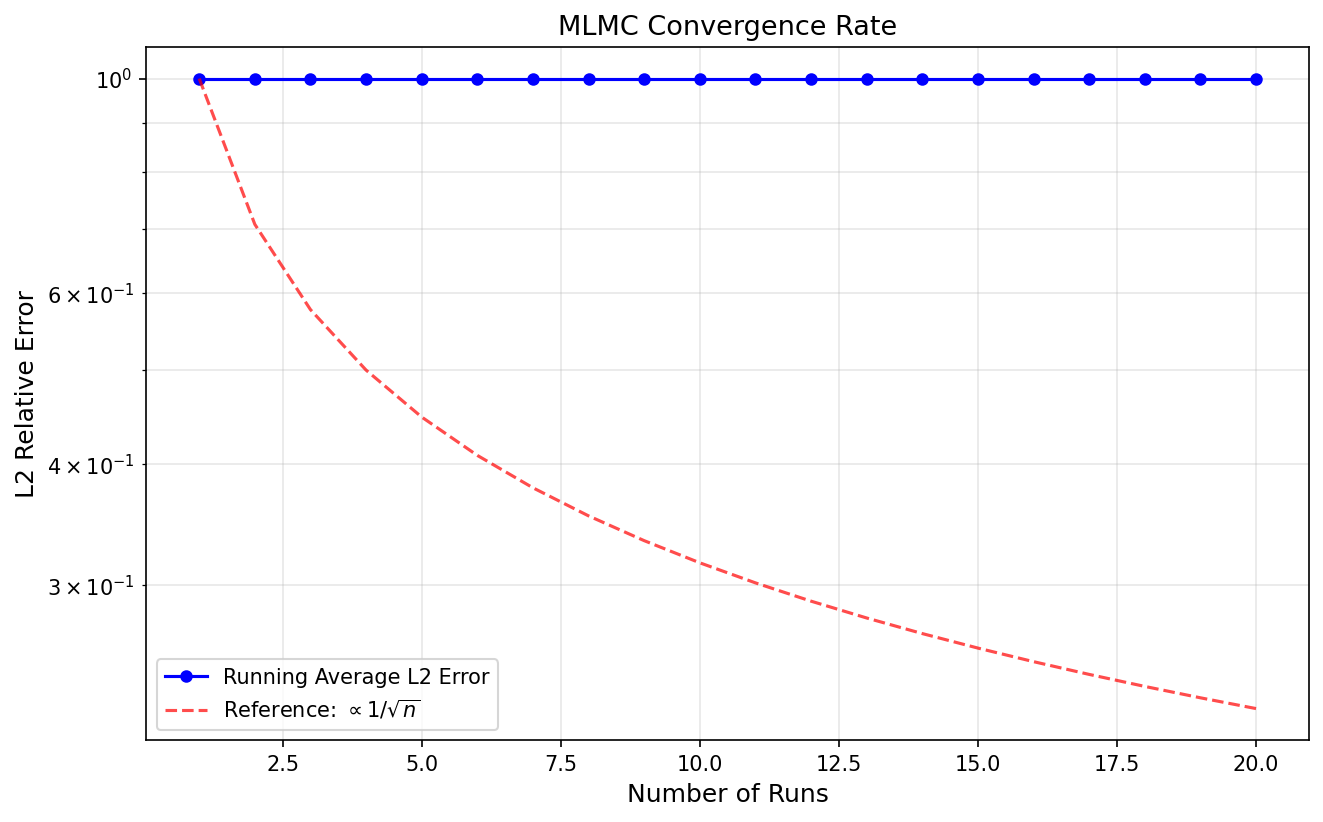
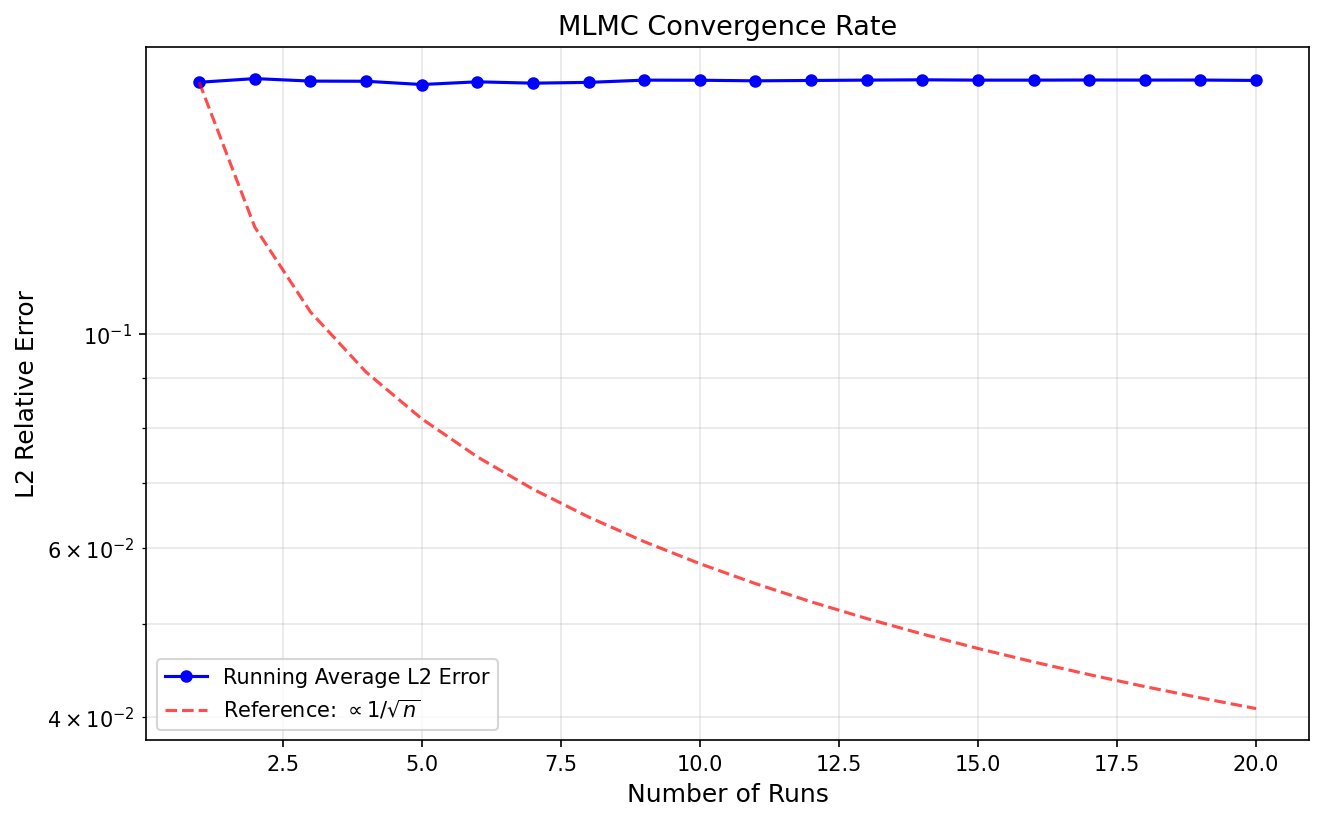
Updated Results

diff --git a/Comparison_Between_Methods/results/tables/exp5_parameter_sensitivity.md b/Comparison_Between_Methods/results/tables/exp5_parameter_sensitivity.md
@@ -4,39 +4,39 @@
 
 | Value | L2 Error | L∞ Error | MLMC Time (s) | Laplace Time (s) |
 |-------|----------|----------|---------------|------------------|
-| 0.05 | 2.0000 | 2.7046 | 0.40 | 0.36 |
-| 0.10 | 2.0000 | 2.7050 | 0.40 | 0.35 |
-| 0.15 | 2.0000 | 2.7064 | 0.40 | 0.36 |
-| 0.20 | 2.0000 | 2.7062 | 0.40 | 0.35 |
-| 0.25 | 2.0000 | 2.7080 | 0.41 | 0.37 |
-| 0.30 | 2.0000 | 2.7074 | 0.41 | 0.34 |
-| 0.40 | 2.0000 | 2.7153 | 0.40 | 0.34 |
-| 0.50 | 2.0000 | 2.7144 | 0.40 | 0.35 |
+| 0.05 | 0.5079 | 1.6188 | 0.22 | 0.36 |
+| 0.10 | 0.1063 | 0.1658 | 0.22 | 0.35 |
+| 0.15 | 0.1739 | 0.2969 | 0.21 | 0.36 |
+| 0.20 | 0.1985 | 0.3797 | 0.22 | 0.37 |
+| 0.25 | 0.2111 | 0.4192 | 0.22 | 0.36 |
+| 0.30 | 0.2204 | 0.4478 | 0.22 | 0.37 |
+| 0.40 | 0.2391 | 0.5020 | 0.22 | 0.35 |
+| 0.50 | 0.2649 | 0.5677 | 0.22 | 0.37 |
 
 ## Correlation ($\rho$)
 
 | Value | L2 Error | L∞ Error | MLMC Time (s) | Laplace Time (s) |
 |-------|----------|----------|---------------|------------------|
-| -0.50 | 2.0000 | 3.1469 | 0.40 | 0.43 |
-| -0.25 | 2.0000 | 2.8487 | 0.40 | 0.41 |
-| 0.00 | 2.0000 | 2.7709 | 0.40 | 0.39 |
-| 0.25 | 2.0000 | 2.7423 | 0.40 | 0.38 |
-| 0.50 | 2.0000 | 2.7284 | 0.39 | 0.37 |
-| 0.70 | 2.0000 | 2.7223 | 0.40 | 0.37 |
-| 0.80 | 2.0000 | 2.7197 | 0.40 | 0.37 |
-| 0.90 | 2.0000 | 2.7179 | 0.40 | 0.37 |
+| -0.50 | 0.2783 | 0.6705 | 0.22 | 0.44 |
+| -0.25 | 0.2153 | 0.4302 | 0.22 | 0.41 |
+| 0.00 | 0.2014 | 0.3807 | 0.21 | 0.40 |
+| 0.25 | 0.1990 | 0.3735 | 0.22 | 0.41 |
+| 0.50 | 0.1997 | 0.3778 | 0.21 | 0.38 |
+| 0.70 | 0.2010 | 0.3832 | 0.22 | 0.37 |
+| 0.80 | 0.2018 | 0.3863 | 0.21 | 0.37 |
+| 0.90 | 0.2026 | 0.3893 | 0.22 | 0.37 |
 
 ## Interest Rate (r)
 
 | Value | L2 Error | L∞ Error | MLMC Time (s) | Laplace Time (s) |
 |-------|----------|----------|---------------|------------------|
-| 0.00 | 2.0000 | 2.7281 | 0.40 | 0.37 |
-| 0.02 | 2.0000 | 2.7281 | 0.41 | 0.37 |
-| 0.05 | 2.0000 | 2.7284 | 0.39 | 0.40 |
-| 0.08 | 2.0000 | 2.7300 | 0.40 | 0.37 |
-| 0.10 | 2.0000 | 2.7322 | 0.40 | 0.37 |
-| 0.12 | 2.0000 | 2.7322 | 0.40 | 0.37 |
-| 0.15 | 2.0000 | 2.7337 | 0.39 | 0.37 |
+| 0.00 | 0.2085 | 0.4148 | 0.22 | 0.37 |
+| 0.02 | 0.2040 | 0.3971 | 0.22 | 0.37 |
+| 0.05 | 0.1997 | 0.3778 | 0.21 | 0.37 |
+| 0.08 | 0.1974 | 0.3652 | 0.21 | 0.37 |
+| 0.10 | 0.1966 | 0.3607 | 0.22 | 0.37 |
+| 0.12 | 0.1962 | 0.3590 | 0.21 | 0.37 |
+| 0.15 | 0.1959 | 0.3572 | 0.22 | 0.37 |
 
 ## Maturity (T)
 
@@ -44,23 +44,23 @@
 |-------|----------|----------|---------------|------------------|
 | 0.10 | FAILED | - | - | - |
 | 0.25 | FAILED | - | - | - |
-| 0.50 | 2.0000 | 2.7284 | 0.40 | 0.37 |
+| 0.50 | 0.1997 | 0.3778 | 0.21 | 0.37 |
 | 0.75 | FAILED | - | - | - |
-| 1.00 | 2.0000 | 2.7302 | 0.82 | 0.36 |
-| 1.50 | 2.0000 | 2.7318 | 1.19 | 0.36 |
-| 2.00 | 2.0000 | 2.7335 | 1.56 | 0.37 |
+| 1.00 | 0.2351 | 0.4779 | 0.41 | 0.37 |
+| 1.50 | 0.2400 | 0.4813 | 0.61 | 0.36 |
+| 2.00 | 0.2449 | 0.4702 | 0.81 | 0.36 |
 
 ## Moneyness (K/S₀)
 
 | Value | L2 Error | L∞ Error | MLMC Time (s) | Laplace Time (s) |
 |-------|----------|----------|---------------|------------------|
-| 0.80 | 2.0000 | 2.7284 | 0.41 | 0.37 |
-| 0.90 | 2.0000 | 2.7284 | 0.39 | 0.37 |
-| 0.95 | 2.0000 | 2.7284 | 0.40 | 0.37 |
-| 1.00 | 2.0000 | 2.7284 | 0.41 | 0.39 |
-| 1.05 | 2.0000 | 2.7284 | 0.40 | 0.37 |
-| 1.10 | 2.0000 | 2.7284 | 0.41 | 0.37 |
-| 1.20 | 2.0000 | 2.7284 | 0.41 | 0.37 |
+| 0.80 | 0.1997 | 0.3778 | 0.21 | 0.37 |
+| 0.90 | 0.1997 | 0.3778 | 0.21 | 0.37 |
+| 0.95 | 0.1997 | 0.3778 | 0.21 | 0.37 |
+| 1.00 | 0.1997 | 0.3778 | 0.21 | 0.37 |
+| 1.05 | 0.1997 | 0.3778 | 0.21 | 0.37 |
+| 1.10 | 0.1997 | 0.3778 | 0.21 | 0.37 |
+| 1.20 | 0.1997 | 0.3778 | 0.21 | 0.37 |
 
 ## Key Observations
 

diff --git a/Comparison_Between_Methods/results/tables/exp4_option_prices.md b/Comparison_Between_Methods/results/tables/exp4_option_prices.md
@@ -12,16 +12,16 @@
 
 | S | MLMC Price | Laplace Price | Difference | Diff (%) |
 |---|------------|---------------|------------|----------|
-| 263.7 | 145.8561 | 36.3214 | 109.5347 | 301.57 |
-| 263.7 | 145.8561 | 36.3214 | 109.5347 | 301.57 |
+| 263.7 | 36.3214 | 36.3214 | 0.0000 | 0.00 |
+| 263.7 | 36.3214 | 36.3214 | 0.0000 | 0.00 |
 | 270.1 | 29.9112 | 29.9112 | 0.0000 | 0.00 |
-| 300.3 | 0.0000 | 7.4941 | 7.4941 | 100.00 |
-| 329.6 | 0.0000 | 1.1201 | 1.1201 | 100.00 |
-| 354.3 | 0.0000 | 0.0214 | 0.0214 | 100.00 |
-| 354.3 | 0.0000 | 0.0214 | 0.0214 | 100.00 |
+| 300.3 | 7.5043 | 7.4941 | 0.0103 | 0.14 |
+| 329.6 | 0.9361 | 1.1201 | 0.1841 | 16.43 |
+| 354.3 | 0.0143 | 0.0214 | 0.0072 | 33.36 |
+| 354.3 | 0.0143 | 0.0214 | 0.0072 | 33.36 |
 
 ## Statistics
 
-- Mean absolute difference: 3.1336
-- Max absolute difference: 109.5347
-- Mean percentage difference: 69.85%
+- Mean absolute difference: 0.0966
+- Max absolute difference: 0.1985
+- Mean percentage difference: 9.48%

diff --git a/Comparison_Between_Methods/results/tables/exp2_convergence_stats.md b/Comparison_Between_Methods/results/tables/exp2_convergence_stats.md
@@ -5,24 +5,24 @@
 | Statistic | Value |
 |-----------|-------|
 | Number of runs | 20 |
-| Mean L2 error (individual) | 0.999999 |
-| Std L2 error | 0.000000 |
-| Final running avg L2 | 0.999999 |
-| Mean time per run | 0.42 s |
-| Total computation time | 8.3 s |
+| Mean L2 error (individual) | 0.183579 |
+| Std L2 error | 0.003359 |
+| Final running avg L2 | 0.183491 |
+| Mean time per run | 0.23 s |
+| Total computation time | 4.5 s |
 
 ## Running Average L2 Errors
 
 | n | L2 Error |
 |---|----------|
-| 1 | 0.999999 |
-| 2 | 0.999999 |
-| 3 | 0.999999 |
-| 4 | 0.999999 |
-| 5 | 0.999999 |
-| 6 | 0.999999 |
-| 11 | 0.999999 |
-| 16 | 0.999999 |
-| 18 | 0.999999 |
-| 19 | 0.999999 |
-| 20 | 0.999999 |
+| 1 | 0.182686 |
+| 2 | 0.184305 |
+| 3 | 0.183202 |
+| 4 | 0.183129 |
+| 5 | 0.181704 |
+| 6 | 0.182889 |
+| 11 | 0.183321 |
+| 16 | 0.183621 |
+| 18 | 0.183648 |
+| 19 | 0.183663 |
+| 20 | 0.183491 |

diff --git a/Comparison_Between_Methods/results/tables/exp1_metrics.md b/Comparison_Between_Methods/results/tables/exp1_metrics.md
@@ -4,12 +4,12 @@
 
 | Metric | Value |
 |--------|-------|
-| L2 relative error | 1.999996 |
-| L∞ error | 2038.3295 |
-| Mean absolute difference | 1468.0073 |
-| Mean relative difference | 200.00% |
-| Bias (MLMC - Laplace) | -1468.0073 |
-| Pearson correlation | 0.9265 |
+| L2 relative error | 0.191101 |
+| L∞ error | 512.3970 |
+| Mean absolute difference | 235.1078 |
+| Mean relative difference | 16.10% |
+| Bias (MLMC - Laplace) | -89.7278 |
+| Pearson correlation | 0.9482 |
 | Valid grid fraction | 100.0% |
 
 ## Parameters

diff --git a/Comparison_Between_Methods/results/tables/exp3_dimension_scaling.md b/Comparison_Between_Methods/results/tables/exp3_dimension_scaling.md
@@ -4,10 +4,10 @@
 
 | d | MLMC Time (s) | Laplace Time (s) | L2 Error | L∞ Error |
 |---|---------------|------------------|----------|----------|
-| 2 | 0.41 | 0.59 | 2.0000 | 2.7308 |
-| 3 | 0.43 | 1.27 | 2.0000 | 2.7155 |
-| 5 | 0.46 | 2.85 | 2.0000 | 2.5053 |
-| 10 | 0.52 | 9.56 | 2.0000 | 2.3776 |
+| 2 | 0.22 | 0.58 | 0.1984 | 0.3775 |
+| 3 | 0.24 | 1.27 | 0.1911 | 0.3570 |
+| 5 | 0.25 | 2.84 | 0.1347 | 0.2511 |
+| 10 | 0.29 | 9.71 | 0.0904 | 0.1702 |
 
 ## Key Observations
 
